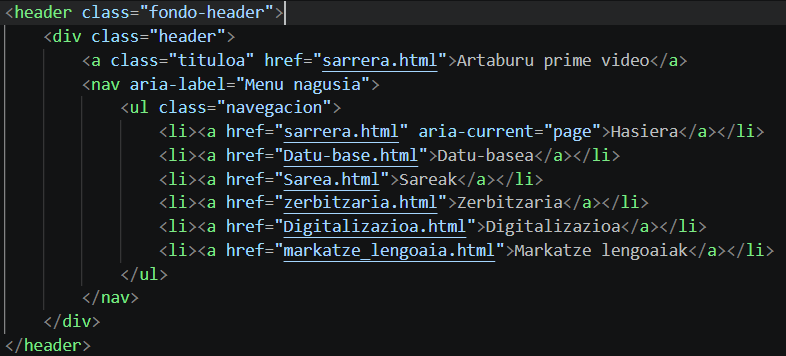
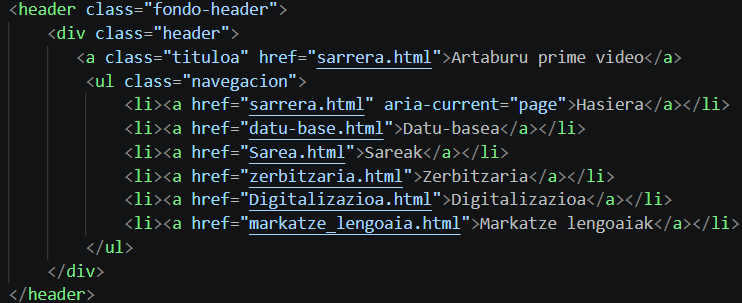
nuevas fotos

Changed region(s): [[0.0, 0.0, 1.0, 0.9208], [0.0, 0.0891, 0.031, 0.9208], [0.0, 0.9505, 0.124, 1.0]]

diff --git a/HTML_4_taldea/Sarea.html b/HTML_4_taldea/Sarea.html
@@ -26,8 +26,8 @@
     <main class="pagina">
         <h1>Sareak</h1>   
         <h2>1. Sare moldagailu eta kableatua </h2>
-                    <img src="argazkiak/emea3.jpeg">
-                    <img src="argazkiak/panel1.jpeg">
+                <img src="argazkiak/emea3.jpeg">
+                <img src="argazkiak/panel1.jpeg">
         <h2>2. pasahitza eta ascii taula </h2>
                 <img src="argazkiak/ASCII-BITAR.jpeg">
         <h2>3. manchester eta ask-fsk-psk</h2>

diff --git a/HTML_4_taldea/datu-base.html b/HTML_4_taldea/datu-base.html
@@ -56,8 +56,7 @@
 
             <h2>2. ER (entitate relazio) diagrama</h2>
             <h3>Gure diagrama:</h3>
-            <img src="argazkiak/CP-DatuBasea-Erronka1.2.png">
-
+            <img src="argazkiak/diagrama.png">
             <h2>3. erlazioanala</h2>
                     <ul>
                         <li>HARPIDETZA (ID-Harpidetza, Hasiera_data, Amaiera_data)</li>
